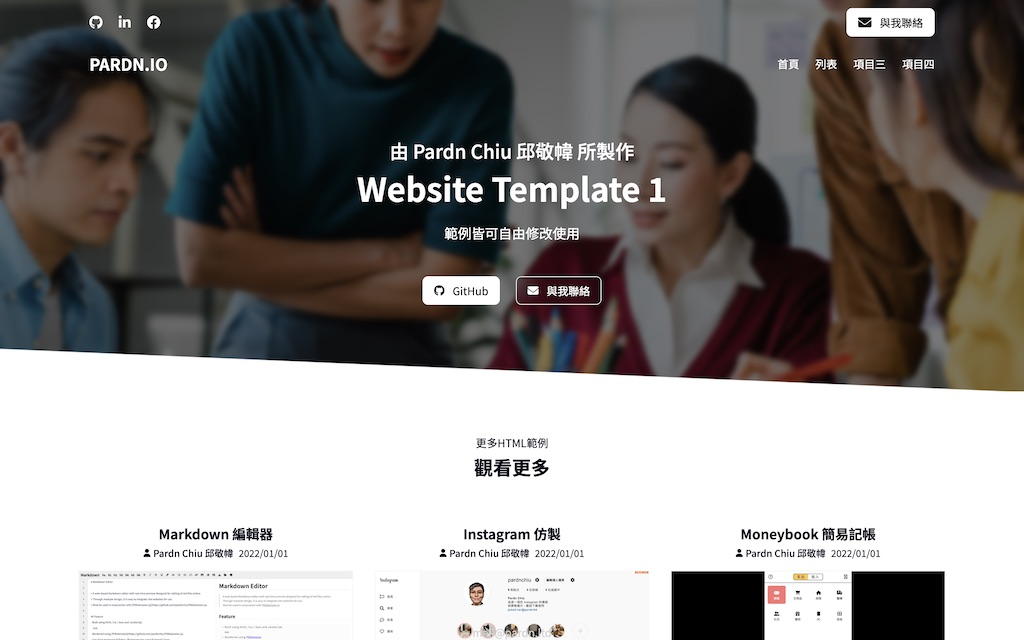
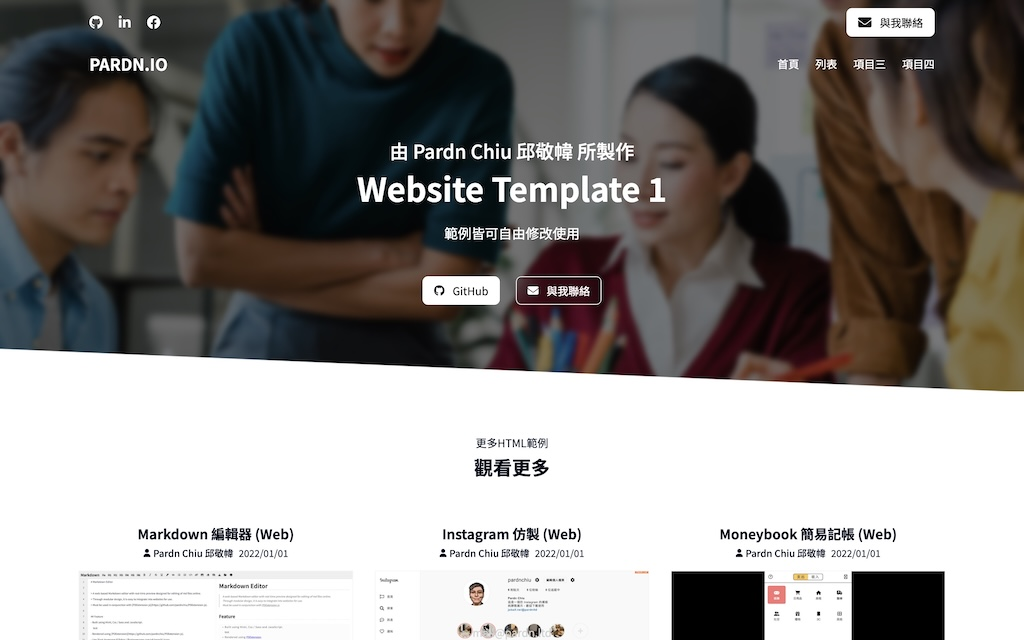
202403100146

Changed region(s): [[0.6875, 0.8125, 0.875, 0.8438], [0.125, 0.8125, 0.2812, 0.8438], [0.4375, 0.8125, 0.5625, 0.8438]]

diff --git a/js/model.min.js b/js/model.min.js
@@ -1,1 +1,1 @@
-function getDom(t){let s="string"==typeof t,e=s?t.$json():t,a=[],i="Lorem",c="Lorem ipsum",o="Lorem ipsum dolor sit amet",r="Lorem ipsum dolor sit amet, consectetur adipiscing elit.",n="Lorem ipsum dolor sit amet, consectetur adipiscing elit. Nullam pharetra ligula odio, sed aliquam augue tincidunt vel.",p="Lorem ipsum dolor sit amet, consectetur adipiscing elit. Nullam pharetra ligula odio, sed aliquam augue tincidunt vel. Suspendisse sodales felis non ex tempus, ac aliquam lacus posuere. Etiam imperdiet aliquam elit, at tincidunt dui.";return e.forEach(t=>{if("string"==typeof t.f)return a.push(t.f._fa);let s;"string"==typeof t.c?s="$XS"===t.c?t.t._(t.a,i):"$S"===t.c?t.t._(t.a,c):"$M"===t.c?t.t._(t.a,o):"$L"===t.c?t.t._(t.a,r):"$XL"===t.c?t.t._(t.a,n):"$XXL"===t.c?t.t._(t.a,p):t.t._(t.a,t.c):t.c instanceof Array&&(s=t.t._(t.a,getDom(t.c))),a.push(s)}),a}let header={_1:{sn:"001",body:[{t:"header",a:{sn:"001"},c:[{t:"section",c:[{t:"section",c:[{t:"h1",c:"$M"},{t:"p",c:"$XXL"},{t:"section",c:[{t:"a.clr",c:[{t:"span",c:"$XS"},{f:"fa-regular fa-envelope"}]},{t:"a",c:[{t:"span",c:"$XS"},{f:"fa-brands fa-github"}]}]}]},{t:"section.list",c:[{t:"img",c:"https://pardnchiu.github.io/website-builder/image/freepik1.svg"}]}]}]}]}},nav={_1:{sn:"001",body:[{t:"nav",a:{sn:"001"},c:[{t:"section",c:[{t:"section.left",c:[{t:"strong",c:"$S"}]},{t:"section.right",c:[{t:"a",c:[{t:"p",c:"$XS"},{f:"fa-solid fa-angle-right"}]},{t:"a",c:[{t:"p",c:"$XS"},{f:"fa-solid fa-angle-right"}]},{t:"a",c:[{t:"p",c:"$XS"},{f:"fa-solid fa-angle-right"}]},{t:"a.clr",c:[{t:"p",c:"$XS"},{f:"fa-solid fa-angle-right"}]}]}]}]}]}},section={_1:{sn:"001",body:[{t:"section",a:{sn:"001"},c:[{t:"section",c:[{t:"section.heading",c:[{t:"em",c:"$M"},{t:"strong",c:"$M"},{t:"p",c:"$XL"}]},{t:"section.list",c:[{t:"div",c:[{f:"fa-solid fa-code"},{t:"strong",c:"$S"},{t:"p",c:"$M"}]},{t:"div",c:[{f:"fa-solid fa-pen-ruler"},{t:"strong",c:"$S"},{t:"p",c:"$M"}]},{t:"div",c:[{f:"fa-solid fa-database"},{t:"strong",c:"$S"},{t:"p",c:"$M"}]},{t:"div",c:[{f:"fa-solid fa-server"},{t:"strong",c:"$S"},{t:"p",c:"$M"}]}]}]}]}]},_2:{sn:"002",body:[{t:"section",a:{sn:"002"},c:[{t:"section",c:[{t:"section.heading",c:[{t:"em",c:"$M"},{t:"strong",c:"$M"},{t:"p",c:"$XL"}]},{t:"section.list",c:[{t:"div",c:[{t:"section",c:[{t:"img",c:"https://pardnchiu.github.io/website-builder/image/Userpics/SVG/Square/Afterclap-0.svg"},{t:"section",c:[{t:"strong",c:"$S"},{t:"p",c:"$M"}]}]},{t:"p",c:"$XL"}]},{t:"div",c:[{t:"section",c:[{t:"img",c:"https://pardnchiu.github.io/website-builder/image/Userpics/SVG/Square/Afterclap-1.svg"},{t:"section",c:[{t:"strong",c:"$S"},{t:"p",c:"$M"}]}]},{t:"p",c:"$XL"}]},{t:"div",c:[{t:"section",c:[{t:"img",c:"https://pardnchiu.github.io/website-builder/image/Userpics/SVG/Square/Afterclap-2.svg"},{t:"section",c:[{t:"strong",c:"$S"},{t:"p",c:"$M"}]}]},{t:"p",c:"$XL"}]}]}]}]}]},_3:{sn:"003",body:[{t:"section",a:{sn:"003"},c:[{t:"section",c:[{t:"section.heading",c:[{t:"em",c:"$M"},{t:"strong",c:"$M"},{t:"p",c:"$XL"}]},{t:"section.list",c:[{t:"div",c:[{f:"fa-solid fa-1"},{t:"section.list",c:[{t:"strong",c:"$M"},{t:"p",c:"$L"}]}]},{t:"div",c:[{f:"fa-solid fa-2"},{t:"section.list",c:[{t:"strong",c:"$M"},{t:"p",c:"$L"}]}]},{t:"div",c:[{f:"fa-solid fa-3"},{t:"section.list",c:[{t:"strong",c:"$M"},{t:"p",c:"$L"}]}]},{t:"div",c:[{f:"fa-solid fa-4"},{t:"section.list",c:[{t:"strong",c:"$M"},{t:"p",c:"$L"}]}]}]}]}]}]},_4:{sn:"004",body:[{t:"section",a:{sn:"004"},c:[{t:"section",c:[{t:"section.heading",c:[{t:"em",c:"$M"},{t:"strong",c:"$M"},{t:"p",c:"$XL"}]},{t:"section.list",c:[{t:"a",c:[{t:"span",c:"$XS"},{f:"fa-solid fa-envelope"}]},{t:"a",c:[{t:"span",c:"$XS"},{f:"fa-brands fa-github"}]}]}]}]}]},_5:{sn:"005",body:[{t:"section",a:{sn:"005"},c:[{t:"section",c:[{t:"section.heading",c:[{t:"em",c:"$M"},{t:"strong",c:"$M"},{t:"p",c:"$XL"}]},{t:"section.list",c:[{t:"div",c:[{t:"em",c:"$XS"},{t:"strong",c:[{t:"span",c:"$"},{t:"span",c:"0.99"},{t:"span",c:"/ month"}]},{t:"ul",c:[{t:"li",c:[{f:"fa-regular fa-circle"},{t:"span",c:"$S"}]},{t:"li",c:[{f:"fa-regular fa-circle"},{t:"span",c:"$S"}]},{t:"li",c:[{f:"fa-regular fa-circle"},{t:"span",c:"$S"}]},{t:"li",c:[{f:"fa-regular fa-circle"},{t:"span",c:"$S"}]},{t:"li",c:[{f:"fa-regular fa-circle-check"},{t:"span",c:"$S"}]},{t:"li",c:[{f:"fa-regular fa-circle-check"},{t:"span",c:"$S"}]}]}]},{t:"div",c:[{t:"em",c:"$XS"},{t:"strong",c:[{t:"span",c:"$"},{t:"span",c:"1.99"},{t:"span",c:"/ month"}]},{t:"ul",c:[{t:"li",c:[{f:"fa-regular fa-circle"},{t:"span",c:"$S"}]},{t:"li",c:[{f:"fa-regular fa-circle"},{t:"span",c:"$S"}]},{t:"li",c:[{f:"fa-regular fa-circle-check"},{t:"span",c:"$S"}]},{t:"li",c:[{f:"fa-regular fa-circle-check"},{t:"span",c:"$S"}]},{t:"li",c:[{f:"fa-regular fa-circle-check"},{t:"span",c:"$S"}]},{t:"li",c:[{f:"fa-regular fa-circle-check"},{t:"span",c:"$S"}]}]}]},{t:"div",c:[{t:"em",c:"$XS"},{t:"strong",c:[{t:"span",c:"$"},{t:"span",c:"2.99"},{t:"span",c:"/ month"}]},{t:"ul",c:[{t:"li",c:[{f:"fa-regular fa-circle-check"},{t:"span",c:"$S"}]},{t:"li",c:[{f:"fa-regular fa-circle-check"},{t:"span",c:"$S"}]},{t:"li",c:[{f:"fa-regular fa-circle-check"},{t:"span",c:"$S"}]},{t:"li",c:[{f:"fa-regular fa-circle-check"},{t:"span",c:"$S"}]},{t:"li",c:[{f:"fa-regular fa-circle-check"},{t:"span",c:"$S"}]},{t:"li",c:[{f:"fa-regular fa-circle-check"},{t:"span",c:"$S"}]}]}]}]}]}]}]},_6:{sn:"006",body:[{t:"section",a:{sn:"006"},c:[{t:"section",c:[{t:"section",c:[{t:"img",c:"https://pardnchiu.github.io/website-builder/image/freepik1.svg"}]},{t:"section",c:[{t:"em",c:"$M"},{t:"strong",c:"$M"},{t:"p",c:"$XL"},{t:"ul",c:[{t:"li",c:[{t:"strong",c:"$XS"},{t:"p",c:"$L"},{t:"a",c:[{t:"span",c:"$XS"},{f:"fa-solid fa-arrow-right"}]}]},{t:"li",c:[{t:"strong",c:"$XS"},{t:"p",c:"$L"},{t:"a",c:[{t:"span",c:"$XS"},{f:"fa-solid fa-arrow-right"}]}]},{t:"li",c:[{t:"strong",c:"$XS"},{t:"p",c:"$L"},{t:"a",c:[{t:"span",c:"$XS"},{f:"fa-solid fa-arrow-right"}]}]},{t:"li",c:[{t:"strong",c:"$XS"},{t:"p",c:"$L"},{t:"a",c:[{t:"span",c:"$XS"},{f:"fa-solid fa-arrow-right"}]}]}]}]}]}]}]},_7:{sn:"007",body:[{t:"section",a:{sn:"007"},c:[{t:"section",c:[{t:"section.heading",c:[{t:"em",c:"$M"},{t:"strong",c:"$M"},{t:"p",c:"$XL"}]},{t:"section.list",c:[{t:"div",c:[{f:"fa-solid fa-code"},{t:"section",c:[{t:"strong",c:"$L"},{t:"p",c:"$XXL"}]}]},{t:"div",c:[{f:"fa-solid fa-pen-ruler"},{t:"section",c:[{t:"strong",c:"$L"},{t:"p",c:"$XXL"}]}]}]}]}]}]},_8:{sn:"008",body:[{t:"section",a:{sn:"008"},c:[{t:"section",c:[{t:"section.heading",c:[{t:"em",c:"$M"},{t:"strong",c:"$M"},{t:"p",c:"$XL"}]},{t:"section.list",c:[{t:"section.left",c:[{t:"strong",c:"$S"},{t:"p",c:"$M"}]},{t:"section.right",c:[{t:"a",c:[{t:"span",c:"$XS"},{f:"fa-solid fa-envelope"}]},{t:"a",c:[{t:"span",c:"$XS"},{f:"fa-brands fa-github"}]}]}]}]}]}]}},template={_1:{sn:"001",body:function(){return["header"._({sn:"001-01",style:{backgroundImage:"url(https://pardnchiu.github.io/image/bg_0.jpg)"}},["section.top"._(["section"._(["a"._({"data-href":"https://github.com/pardnchiu"},["fa-brands fa-github"._fa]),"a"._({"data-href":"https://linkedin.com/in/pardnchiu"},["fa-brands fa-linkedin-in"._fa]),"a"._({"data-href":"https://www.facebook.com/pardnchiu"},["fa-brands fa-facebook"._fa])]),"section"._(["a.button"._({"data-href":"mailto:mail@pardn.ltd"},["fa-solid fa-envelope"._fa,"與我聯絡"])])]),"nav#top-nav"._(["section"._(["section"._(["strong"._("PARDN.IO")]),"section"._(["section"._(["a"._("首頁"),"section"._(["列表","section"._(["a"._("項目一"),"a"._("項目二")])]),"a"._("項目三"),"a"._("項目四"),"button.close"._("關閉")]),"button.mobile"._(["fa-solid fa-list"._fa])])])]),"section.body"._(["article"._(["h2"._("由 Pardn Chiu 邱敬幃 所製作"),"h1"._("Website Template 1"),"p"._("範例皆可自由修改使用"),"section"._(["a"._({"data-href":"https://github.com/pardnchiu"},["fa-brands fa-github"._fa,"GitHub"]),"a"._({"data-href":"mailto:mail@pardn.ltd"},["fa-solid fa-envelope"._fa,"與我聯絡"])])])])]),"section"._({sn:"001-02"},["span.top"._(),"span.bottom"._(),"section.header"._(["p"._("更多HTML範例"),"strong"._("觀看更多")]),"section.list"._(["article"._(["section"._(["strong"._("Markdown 編輯器"),"ul"._(["li"._(["a"._(["fa-solid fa-user"._fa," Pardn Chiu 邱敬幃"])]),"li"._(["time"._({datetime:"2022/01/01"},"2022/01/01")])])]),"figure"._(["a"._(["img"._("https://pardnchiu.github.io/markdown-editor/image/preview.jpg")]),"figcaption"._(["p"._("A web-based Markdown Editor with real-time preview, built with pure HTML, CSS and JavaScript."),"a"._({"data-href":"https://pardnchiu.github.io/markdown-editor"},["fa-brands fa-github"._fa,"預覽"])])])]),"article"._(["section"._(["strong"._("Instagram 仿製"),"ul"._(["li"._(["a"._(["fa-solid fa-user"._fa," Pardn Chiu 邱敬幃"])]),"li"._(["time"._({datetime:"2022/01/01"},"2022/01/01")])])]),"figure"._(["a"._(["img"._("https://pardnchiu.github.io/instagram-202210-web/image/preview.jpg")]),"figcaption"._(["p"._("Building a Instagram Clone from scratch, built with pure HTML, CSS and JavaScript."),"a"._({"data-href":"https://pardnchiu.github.io/instagram-202210-web"},["fa-brands fa-github"._fa,"預覽"])])])]),"article"._(["section"._(["strong"._("Moneybook 簡易記帳"),"ul"._(["li"._(["a"._(["fa-solid fa-user"._fa," Pardn Chiu 邱敬幃"])]),"li"._(["time"._({datetime:"2022/01/01"},"2022/01/01")])])]),"figure"._(["a"._(["img"._("https://pardnchiu.github.io/moneybook/image/preview.jpg")]),"figcaption"._(["p"._("A web-based basic expense tracking app interface, built with pure HTML, CSS and JavaScript."),"a"._({"data-href":"https://pardnchiu.github.io/moneybook"},["fa-brands fa-github"._fa,"預覽"])])])])])]),"section"._({sn:"001-03",style:{backgroundImage:"linear-gradient(to right bottom, #000, steelblue)"}},["section"._(["div"._(["fa-brands fa-swift"._fa,"p"._("Swift"),"strong"._("7 年")]),"div"._(["fa-brands fa-html5"._fa,"p"._("Html / Scss / Js"),"strong"._("6 年")]),"div"._(["fa-brands fa-node-js"._fa,"p"._("Node.js"),"strong"._("6 年")]),"div"._(["fa-brands fa-php"._fa,"p"._("PHP"),"strong"._("3 年")])])]),"section"._({sn:"001-04"},["span.top"._(),"span.bottom"._(),"section.header"._(["p"._("更多類型的範例"),"strong"._("更多項目")]),"section.list"._(["figure"._(["a"._(["img"._("https://pardnchiu.github.io/firebase-messaging-ios/image/2-1.jpg")]),"figcaption"._(["a"._(["strong"._("Firebase 即時訊息 (iOS)"),"p"._("")])])]),"figure"._(["a"._(["img"._("https://pardnchiu.github.io/moneybook-ios/image/2-1.jpg")]),"figcaption"._(["a"._(["strong"._("Moneybook 簡易記帳 (iOS)"),"p"._("A lightweight front-end framework designed to separate the front-end user interface and data logic.")])])]),"figure"._(["a"._(["img"._("https://pardnchiu.github.io/PDExtension-js/image/2-1.jpg")]),"figcaption"._(["a"._(["strong"._("PDExtension (JavaScript)"),"p"._("A Swift library for accelerating iOS app development.")])])]),"figure"._(["a"._(["img"._("https://pardnchiu.github.io/PDPlayer/image/2-1.jpg")]),"figcaption"._(["a"._(["strong"._("PDPlayer (JavaScript)"),"p"._("A video player perfectly resolves full-screen display on mobile devices at inline mode, supporting both local and YouTube videos.")])])])])]),"section"._({sn:"001-05",style:{backgroundImage:"url(https://pardnchiu.github.io/image/bg_2.jpg)"}},["span.mask"._(),"section.header"._(["strong"._("Lorem ipsum"),"p"._("Lorem ipsum dolor sit amet")]),"section.list.r3"._(["article"._(["fa-solid fa-glass-martini-alt"._fa,"strong"._("Lorem ipsum"),"p"._("Lorem ipsum dolor sit amet, consectetur adipiscing elit."),"a"._(["前往查看","fa-solid fa-caret-right"._fa])]),"article"._(["fa-solid fa-chart-area"._fa,"strong"._("Lorem ipsum"),"p"._("Lorem ipsum dolor sit amet, consectetur adipiscing elit."),"a"._(["前往查看","fa-solid fa-caret-right"._fa])]),"article"._(["fa-solid fa-bus-alt"._fa,"strong"._("Lorem ipsum"),"p"._("Lorem ipsum dolor sit amet, consectetur adipiscing elit."),"a"._(["前往查看","fa-solid fa-caret-right"._fa])])])]),"section"._({sn:"001-06"},["span.top"._(),"span.bottom"._(),"section.header"._(["strong"._("Lorem ipsum"),"p"._("Lorem ipsum dolor sit amet")]),"section.body"._(["section"._(["strong"._("Lorem ipsum dolor sit amet"),"p"._("Lorem ipsum dolor sit amet, consectetur adipiscing elit. Nullam pharetra ligula odio, sed aliquam augue tincidunt vel. Suspendisse sodales felis non ex tempus, ac aliquam lacus posuere. Etiam imperdiet aliquam elit, at tincidunt dui."),"section.button"._(["a"._("Lorem"),"a"._("Lorem")])]),"section"._(["section.yt"._(["iframe"._({frameborder:"0",allowfullscreen:"",src:"https://www.youtube.com/embed/zJ_w7Dix_f0?si=6M2qyu_O3z2yYGNy"})]),"p"._("Lorem ipsum dolor sit amet, consectetur adipiscing elit. Nullam pharetra ligula odio, sed aliquam augue tincidunt vel.")])])]),"footer"._({sn:"001-07",style:{backgroundImage:"url(https://pardnchiu.github.io/image/bg_3.jpg)"}},["span.blur"._(),"section"._(["section.block"._(["strong"._("About"),"p"._("Lorem ipsum dolor sit amet, consectetur adipiscing elit. Nullam pharetra ligula odio, sed aliquam augue tincidunt vel. Suspendisse sodales felis non ex tempus, ac aliquam lacus posuere. Etiam imperdiet aliquam elit, at tincidunt dui."),"section.contact"._(["a"._(["fa-brands fa-github"._fa]),"a"._(["fa-brands fa-linkedin-in"._fa]),"a"._(["fa-brands fa-facebook"._fa])])]),"section.block"._(["strong"._("GitHub"),"section.list"._(["a"._("Markdown 編輯器 (Web)"),"a"._("Instagram 仿製 (Web)"),"a"._("Moneybook 簡易記帳 (Web)"),"a"._("Firebase 即時訊息 (iOS)"),"a"._("Moneybook 簡易記帳 (iOS)")])]),"section.block"._(["strong"._("Contact"),"section.input"._(["p"._("Lorem ipsum dolor sit amet, consectetur adipiscing elit."),"form"._(["label"._(["input@text 名稱"._({readonly:""})]),"label"._(["input@text 信箱"._({readonly:""})])]),"a"._("送出")])]),"section.block"._(["strong"._("Lorem"),"section.grid"._(["a"._(["img"._("https://pardnchiu.github.io/image/Userpics/SVG/Square/Afterclap-0.svg")]),"a"._(["img"._("https://pardnchiu.github.io/image/Userpics/SVG/Square/Afterclap-1.svg")]),"a"._(["img"._("https://pardnchiu.github.io/image/Userpics/SVG/Square/Afterclap-2.svg")]),"a"._(["img"._("https://pardnchiu.github.io/image/Userpics/SVG/Square/Afterclap-3.svg")]),"a"._(["img"._("https://pardnchiu.github.io/image/Userpics/SVG/Square/Afterclap-4.svg")]),"a"._(["img"._("https://pardnchiu.github.io/image/Userpics/SVG/Square/Afterclap-5.svg")]),"a"._(["img"._("https://pardnchiu.github.io/image/Userpics/SVG/Square/Afterclap-6.svg")]),"a"._(["img"._("https://pardnchiu.github.io/image/Userpics/SVG/Square/Afterclap-7.svg")]),"a"._(["img"._("https://pardnchiu.github.io/image/Userpics/SVG/Square/Afterclap-8.svg")])])]),"section.page"._(["a"._(["fa-solid fa-home"._fa]),"a"._("關於我"),"a"._("與我聯絡"),"a"._("服務條款"),"a"._("服務條款")]),"section.bottom"._(["p.l"._("© 2022 - All Rights Reserved - Pardn.io"),"p.r"._("Created by Pardn Chiu 邱敬幃")])])])]}}},w3={display:"https://www.w3schools.com/cssref/pr_class_display.php",position:"https://www.w3schools.com/cssref/pr_class_position.php",top:"https://www.w3schools.com/cssref/pr_pos_top.php",left:"https://www.w3schools.com/cssref/pr_pos_left.php",bottom:"https://www.w3schools.com/cssref/pr_pos_bottom.php",right:"https://www.w3schools.com/cssref/pr_pos_right.php",float:"https://www.w3schools.com/cssref/pr_class_float.php",opacity:"https://www.w3schools.com/cssref/css3_pr_opacity.php",zIndex:"https://www.w3schools.com/cssref/pr_pos_z-index.php",verticalAlign:"https://www.w3schools.com/cssref/pr_pos_vertical-align.php",boxSizing:"https://www.w3schools.com/cssref/pr_pos_vertical-align.php",overflow:"https://www.w3schools.com/cssref/pr_pos_overflow.php",transform:"https://www.w3schools.com/cssref/css3_prtransform.php",marginTop:"https://www.w3schools.com/cssref/pr_margin-top.php",marginLeft:"https://www.w3schools.com/cssref/pr_margin-left.php",marginBottom:"https://www.w3schools.com/cssref/pr_margin-bottom.php",marginRight:"https://www.w3schools.com/cssref/pr_margin-right.php",paddingTop:"https://www.w3schools.com/cssref/pr_padding-top.php",paddingLeft:"https://www.w3schools.com/cssref/pr_padding-left.php",paddingBottom:"https://www.w3schools.com/cssref/pr_padding-bottom.php",paddingRight:"https://www.w3schools.com/cssref/pr_padding-right.php",color:"https://www.w3schools.com/cssref/css_colors_legal.php",gradient:"https://www.w3schools.com/css/css3_gradients.asp",backgroundImage:"https://www.w3schools.com/cssref/pr_background-image.php",backgroundRepeat:"https://www.w3schools.com/cssref/pr_background-repeat.php",backgroundPosition:"https://www.w3schools.com/cssref/pr_background-position.php",backgroundSize:"https://www.w3schools.com/cssref/css3_prbackground-size.php",backgroundAttachment:"https://www.w3schools.com/cssref/pr_background-attachment.php",backgroundClip:"https://www.w3schools.com/cssref/css3_prbackground-clip.php",textAlign:"https://www.w3schools.com/cssref/pr_text_text-align.php",lineHeight:"https://www.w3schools.com/cssref/pr_dim_line-height.php",letterSpacing:"https://www.w3schools.com/cssref/pr_text_letter-spacing.php",textDecorationLine:"https://www.w3schools.com/cssref/css3_pr_text-decoration-line.php",textDecorationColor:"https://www.w3schools.com/cssref/css3_pr_text-decoration-color.php",textDecorationStyle:"https://www.w3schools.com/cssref/css3_pr_text-decoration-style.php",textDecorationThickness:"https://www.w3schools.com/cssref/pr_text_text-decoration-thickness.php",fontFamily:"https://www.w3schools.com/cssref/pr_font_font-family.php",fontStyle:"https://www.w3schools.com/cssref/pr_font_font-style.php",fontSize:"https://www.w3schools.com/cssref/pr_font_font-size.php",fontWeight:"https://www.w3schools.com/cssref/pr_font_weight.php",borderStyle:"https://www.w3schools.com/cssref/pr_border-style.php",borderTopWidth:"https://www.w3schools.com/cssref/pr_padding-top.php",borderLeftWidth:"https://www.w3schools.com/cssref/pr_padding-left.php",borderBottomWidth:"https://www.w3schools.com/cssref/pr_padding-right.php",borderRightWidth:"https://www.w3schools.com/cssref/pr_padding-right.php",borderTopLeftRadius:"https://www.w3schools.com/cssref/pr_padding-top.php",borderTopRightRadius:"https://www.w3schools.com/cssref/pr_padding-top.php",borderBottomRightRadius:"https://www.w3schools.com/cssref/pr_padding-top.php",borderBottomLeftRadius:"https://www.w3schools.com/cssref/pr_padding-top.php",listStyleType:"https://www.w3schools.com/cssref/pr_list-style-type.php",listStylePosition:"https://www.w3schools.com/cssref/pr_list-style-position.php",datetime:"https://www.w3schools.com/tags/att_datetime.asp"};Object.defineProperty(Array.prototype,"getMap",{get:function(){const t=new Map;return this.forEach(s=>t.set(s,0)),t}});let map={heading:["h1","h2","h3","h4","h5","h6"].getMap,target:["_self","_blank"].getMap,mask:["none","convex-32","convex-48","convex-64","concave-32","concave-48","concave-64","slash-left-32","slash-left-48","slash-left-64","slash-right-32","slash-right-48","slash-right-64","wave"].getMap,display:["block","inline","inline-block","flex","inline-flex","grid","inline-grid","table","table-row","list-item","none"].getMap,position:["static","relative","fixed","absolute","sticky"].getMap,float:["none","left","right"].getMap,boxSizing:["content-box","border-box"].getMap,overflow:["visible","hidden","scroll","scroll hidden","hidden scroll","auto"].getMap,backgroundRepeat:["repeat","repeat-x","repeat-y","no-repeat"].getMap,backgroundAttachment:["scroll","fixed","local"].getMap,backgroundClip:["border-box","padding-box","content-box","text"].getMap,textAlign:["left","center","right","justify","justify-all","start","end"].getMap,textDecoration:["none","overline","underline","line-through"].getMap,textDecorationStyle:["solid","double","dotted","dashed","wavy"].getMap,fontFamily:["Arial","Arial Black","Comic Sans MS","Courier","Courier New","Georgia","Impact","Monospace","Microsoft Sans Serif","Noto Sans TC","Roman","Roboto Mono","sans-serif","Symbol","System","Tahoma","Times New Roman","Trebuchet MS","verdana"].getMap,fontStyle:["normal","italic","oblique"].getMap,borderStyle:["none","solid","dotted","dashed"].getMap,bool:["是","否"].getMap,listStylePosition:["outside","inside"].getMap},navs={},headers={},sections={},templates={};nav.$vals.forEach(t=>navs[`n${t.sn}`]={cover:`image/preview/nav/${t.sn}.jpg`,body:function(){return null==this.cache&&(this.cache=getDom(t.body)[0]),this.cache}}),header.$vals.forEach(t=>headers[`n${t.sn}`]={cover:`image/preview/header/${t.sn}.jpg`,body:function(){return null==this.cache&&(this.cache=getDom(t.body)[0]),this.cache}}),section.$vals.forEach(t=>sections[`n${t.sn}`]={cover:`image/preview/section/${t.sn}.jpg`,body:function(){return null==this.cache&&(this.cache=getDom(t.body)[0]),this.cache}}),template.$vals.forEach(t=>templates[`n${t.sn}`]={cover:`image/preview/template/${t.sn}.jpg`,body:function(){return t.body()}});export{w3,map,navs,headers,sections,templates};
+function getDom(t){let s="string"==typeof t,e=s?t.$json():t,a=[],i="Lorem",c="Lorem ipsum",o="Lorem ipsum dolor sit amet",r="Lorem ipsum dolor sit amet, consectetur adipiscing elit.",n="Lorem ipsum dolor sit amet, consectetur adipiscing elit. Nullam pharetra ligula odio, sed aliquam augue tincidunt vel.",p="Lorem ipsum dolor sit amet, consectetur adipiscing elit. Nullam pharetra ligula odio, sed aliquam augue tincidunt vel. Suspendisse sodales felis non ex tempus, ac aliquam lacus posuere. Etiam imperdiet aliquam elit, at tincidunt dui.";return e.forEach(t=>{if("string"==typeof t.f)return a.push(t.f._fa);let s;"string"==typeof t.c?s="$XS"===t.c?t.t._(t.a,i):"$S"===t.c?t.t._(t.a,c):"$M"===t.c?t.t._(t.a,o):"$L"===t.c?t.t._(t.a,r):"$XL"===t.c?t.t._(t.a,n):"$XXL"===t.c?t.t._(t.a,p):t.t._(t.a,t.c):t.c instanceof Array&&(s=t.t._(t.a,getDom(t.c))),a.push(s)}),a}let header={_1:{sn:"001",body:[{t:"header",a:{sn:"001"},c:[{t:"section",c:[{t:"section",c:[{t:"h1",c:"$M"},{t:"p",c:"$XXL"},{t:"section",c:[{t:"a.clr",c:[{t:"span",c:"$XS"},{f:"fa-regular fa-envelope"}]},{t:"a",c:[{t:"span",c:"$XS"},{f:"fa-brands fa-github"}]}]}]},{t:"section.list",c:[{t:"img",c:"https://pardnchiu.github.io/website-builder/image/freepik1.svg"}]}]}]}]}},nav={_1:{sn:"001",body:[{t:"nav",a:{sn:"001"},c:[{t:"section",c:[{t:"section.left",c:[{t:"strong",c:"$S"}]},{t:"section.right",c:[{t:"a",c:[{t:"p",c:"$XS"},{f:"fa-solid fa-angle-right"}]},{t:"a",c:[{t:"p",c:"$XS"},{f:"fa-solid fa-angle-right"}]},{t:"a",c:[{t:"p",c:"$XS"},{f:"fa-solid fa-angle-right"}]},{t:"a.clr",c:[{t:"p",c:"$XS"},{f:"fa-solid fa-angle-right"}]}]}]}]}]}},section={_1:{sn:"001",body:[{t:"section",a:{sn:"001"},c:[{t:"section",c:[{t:"section.heading",c:[{t:"em",c:"$M"},{t:"strong",c:"$M"},{t:"p",c:"$XL"}]},{t:"section.list",c:[{t:"div",c:[{f:"fa-solid fa-code"},{t:"strong",c:"$S"},{t:"p",c:"$M"}]},{t:"div",c:[{f:"fa-solid fa-pen-ruler"},{t:"strong",c:"$S"},{t:"p",c:"$M"}]},{t:"div",c:[{f:"fa-solid fa-database"},{t:"strong",c:"$S"},{t:"p",c:"$M"}]},{t:"div",c:[{f:"fa-solid fa-server"},{t:"strong",c:"$S"},{t:"p",c:"$M"}]}]}]}]}]},_2:{sn:"002",body:[{t:"section",a:{sn:"002"},c:[{t:"section",c:[{t:"section.heading",c:[{t:"em",c:"$M"},{t:"strong",c:"$M"},{t:"p",c:"$XL"}]},{t:"section.list",c:[{t:"div",c:[{t:"section",c:[{t:"img",c:"https://pardnchiu.github.io/website-builder/image/Userpics/SVG/Square/Afterclap-0.svg"},{t:"section",c:[{t:"strong",c:"$S"},{t:"p",c:"$M"}]}]},{t:"p",c:"$XL"}]},{t:"div",c:[{t:"section",c:[{t:"img",c:"https://pardnchiu.github.io/website-builder/image/Userpics/SVG/Square/Afterclap-1.svg"},{t:"section",c:[{t:"strong",c:"$S"},{t:"p",c:"$M"}]}]},{t:"p",c:"$XL"}]},{t:"div",c:[{t:"section",c:[{t:"img",c:"https://pardnchiu.github.io/website-builder/image/Userpics/SVG/Square/Afterclap-2.svg"},{t:"section",c:[{t:"strong",c:"$S"},{t:"p",c:"$M"}]}]},{t:"p",c:"$XL"}]}]}]}]}]},_3:{sn:"003",body:[{t:"section",a:{sn:"003"},c:[{t:"section",c:[{t:"section.heading",c:[{t:"em",c:"$M"},{t:"strong",c:"$M"},{t:"p",c:"$XL"}]},{t:"section.list",c:[{t:"div",c:[{f:"fa-solid fa-1"},{t:"section.list",c:[{t:"strong",c:"$M"},{t:"p",c:"$L"}]}]},{t:"div",c:[{f:"fa-solid fa-2"},{t:"section.list",c:[{t:"strong",c:"$M"},{t:"p",c:"$L"}]}]},{t:"div",c:[{f:"fa-solid fa-3"},{t:"section.list",c:[{t:"strong",c:"$M"},{t:"p",c:"$L"}]}]},{t:"div",c:[{f:"fa-solid fa-4"},{t:"section.list",c:[{t:"strong",c:"$M"},{t:"p",c:"$L"}]}]}]}]}]}]},_4:{sn:"004",body:[{t:"section",a:{sn:"004"},c:[{t:"section",c:[{t:"section.heading",c:[{t:"em",c:"$M"},{t:"strong",c:"$M"},{t:"p",c:"$XL"}]},{t:"section.list",c:[{t:"a",c:[{t:"span",c:"$XS"},{f:"fa-solid fa-envelope"}]},{t:"a",c:[{t:"span",c:"$XS"},{f:"fa-brands fa-github"}]}]}]}]}]},_5:{sn:"005",body:[{t:"section",a:{sn:"005"},c:[{t:"section",c:[{t:"section.heading",c:[{t:"em",c:"$M"},{t:"strong",c:"$M"},{t:"p",c:"$XL"}]},{t:"section.list",c:[{t:"div",c:[{t:"em",c:"$XS"},{t:"strong",c:[{t:"span",c:"$"},{t:"span",c:"0.99"},{t:"span",c:"/ month"}]},{t:"ul",c:[{t:"li",c:[{f:"fa-regular fa-circle"},{t:"span",c:"$S"}]},{t:"li",c:[{f:"fa-regular fa-circle"},{t:"span",c:"$S"}]},{t:"li",c:[{f:"fa-regular fa-circle"},{t:"span",c:"$S"}]},{t:"li",c:[{f:"fa-regular fa-circle"},{t:"span",c:"$S"}]},{t:"li",c:[{f:"fa-regular fa-circle-check"},{t:"span",c:"$S"}]},{t:"li",c:[{f:"fa-regular fa-circle-check"},{t:"span",c:"$S"}]}]}]},{t:"div",c:[{t:"em",c:"$XS"},{t:"strong",c:[{t:"span",c:"$"},{t:"span",c:"1.99"},{t:"span",c:"/ month"}]},{t:"ul",c:[{t:"li",c:[{f:"fa-regular fa-circle"},{t:"span",c:"$S"}]},{t:"li",c:[{f:"fa-regular fa-circle"},{t:"span",c:"$S"}]},{t:"li",c:[{f:"fa-regular fa-circle-check"},{t:"span",c:"$S"}]},{t:"li",c:[{f:"fa-regular fa-circle-check"},{t:"span",c:"$S"}]},{t:"li",c:[{f:"fa-regular fa-circle-check"},{t:"span",c:"$S"}]},{t:"li",c:[{f:"fa-regular fa-circle-check"},{t:"span",c:"$S"}]}]}]},{t:"div",c:[{t:"em",c:"$XS"},{t:"strong",c:[{t:"span",c:"$"},{t:"span",c:"2.99"},{t:"span",c:"/ month"}]},{t:"ul",c:[{t:"li",c:[{f:"fa-regular fa-circle-check"},{t:"span",c:"$S"}]},{t:"li",c:[{f:"fa-regular fa-circle-check"},{t:"span",c:"$S"}]},{t:"li",c:[{f:"fa-regular fa-circle-check"},{t:"span",c:"$S"}]},{t:"li",c:[{f:"fa-regular fa-circle-check"},{t:"span",c:"$S"}]},{t:"li",c:[{f:"fa-regular fa-circle-check"},{t:"span",c:"$S"}]},{t:"li",c:[{f:"fa-regular fa-circle-check"},{t:"span",c:"$S"}]}]}]}]}]}]}]},_6:{sn:"006",body:[{t:"section",a:{sn:"006"},c:[{t:"section",c:[{t:"section",c:[{t:"img",c:"https://pardnchiu.github.io/website-builder/image/freepik1.svg"}]},{t:"section",c:[{t:"em",c:"$M"},{t:"strong",c:"$M"},{t:"p",c:"$XL"},{t:"ul",c:[{t:"li",c:[{t:"strong",c:"$XS"},{t:"p",c:"$L"},{t:"a",c:[{t:"span",c:"$XS"},{f:"fa-solid fa-arrow-right"}]}]},{t:"li",c:[{t:"strong",c:"$XS"},{t:"p",c:"$L"},{t:"a",c:[{t:"span",c:"$XS"},{f:"fa-solid fa-arrow-right"}]}]},{t:"li",c:[{t:"strong",c:"$XS"},{t:"p",c:"$L"},{t:"a",c:[{t:"span",c:"$XS"},{f:"fa-solid fa-arrow-right"}]}]},{t:"li",c:[{t:"strong",c:"$XS"},{t:"p",c:"$L"},{t:"a",c:[{t:"span",c:"$XS"},{f:"fa-solid fa-arrow-right"}]}]}]}]}]}]}]},_7:{sn:"007",body:[{t:"section",a:{sn:"007"},c:[{t:"section",c:[{t:"section.heading",c:[{t:"em",c:"$M"},{t:"strong",c:"$M"},{t:"p",c:"$XL"}]},{t:"section.list",c:[{t:"div",c:[{f:"fa-solid fa-code"},{t:"section",c:[{t:"strong",c:"$L"},{t:"p",c:"$XXL"}]}]},{t:"div",c:[{f:"fa-solid fa-pen-ruler"},{t:"section",c:[{t:"strong",c:"$L"},{t:"p",c:"$XXL"}]}]}]}]}]}]},_8:{sn:"008",body:[{t:"section",a:{sn:"008"},c:[{t:"section",c:[{t:"section.heading",c:[{t:"em",c:"$M"},{t:"strong",c:"$M"},{t:"p",c:"$XL"}]},{t:"section.list",c:[{t:"section.left",c:[{t:"strong",c:"$S"},{t:"p",c:"$M"}]},{t:"section.right",c:[{t:"a",c:[{t:"span",c:"$XS"},{f:"fa-solid fa-envelope"}]},{t:"a",c:[{t:"span",c:"$XS"},{f:"fa-brands fa-github"}]}]}]}]}]}]}},template={_1:{sn:"001",body:function(){return["header"._({sn:"001-01",style:{backgroundImage:"url(https://pardnchiu.github.io/image/bg_0.jpg)"}},["section.top"._(["section"._(["a"._({"data-href":"https://github.com/pardnchiu"},["fa-brands fa-github"._fa]),"a"._({"data-href":"https://linkedin.com/in/pardnchiu"},["fa-brands fa-linkedin-in"._fa]),"a"._({"data-href":"https://www.facebook.com/pardnchiu"},["fa-brands fa-facebook"._fa])]),"section"._(["a.button"._({"data-href":"mailto:mail@pardn.ltd"},["fa-solid fa-envelope"._fa,"與我聯絡"])])]),"nav#top-nav"._(["section"._(["section"._(["strong"._("PARDN.IO")]),"section"._(["section"._(["a"._("首頁"),"section"._(["列表","section"._(["a"._("項目一"),"a"._("項目二")])]),"a"._("項目三"),"a"._("項目四"),"button.close"._("關閉")]),"button.mobile"._(["fa-solid fa-list"._fa])])])]),"section.body"._(["article"._(["h2"._("由 Pardn Chiu 邱敬幃 所製作"),"h1"._("Website Template 1"),"p"._("範例皆可自由修改使用"),"section"._(["a"._({"data-href":"https://github.com/pardnchiu"},["fa-brands fa-github"._fa,"GitHub"]),"a"._({"data-href":"mailto:mail@pardn.ltd"},["fa-solid fa-envelope"._fa,"與我聯絡"])])])])]),"section"._({sn:"001-02"},["span.top"._(),"span.bottom"._(),"section.header"._(["p"._("更多HTML範例"),"strong"._("觀看更多")]),"section.list"._(["article"._(["section"._(["strong"._("Markdown 編輯器 (Web)"),"ul"._(["li"._(["a"._(["fa-solid fa-user"._fa," Pardn Chiu 邱敬幃"])]),"li"._(["time"._({datetime:"2022/01/01"},"2022/01/01")])])]),"figure"._(["a"._(["img"._("https://pardnchiu.github.io/markdown-editor/image/preview.jpg")]),"figcaption"._(["p"._("A web-based Markdown Editor with real-time preview, built with pure HTML, CSS and JavaScript."),"a"._({"data-href":"https://pardnchiu.github.io/markdown-editor"},["fa-brands fa-github"._fa,"預覽"])])])]),"article"._(["section"._(["strong"._("Instagram 仿製 (Web)"),"ul"._(["li"._(["a"._(["fa-solid fa-user"._fa," Pardn Chiu 邱敬幃"])]),"li"._(["time"._({datetime:"2022/01/01"},"2022/01/01")])])]),"figure"._(["a"._(["img"._("https://pardnchiu.github.io/instagram-202210-web/image/preview.jpg")]),"figcaption"._(["p"._("Building a Instagram Clone from scratch, built with pure HTML, CSS and JavaScript."),"a"._({"data-href":"https://pardnchiu.github.io/instagram-202210-web"},["fa-brands fa-github"._fa,"預覽"])])])]),"article"._(["section"._(["strong"._("Moneybook 簡易記帳 (Web)"),"ul"._(["li"._(["a"._(["fa-solid fa-user"._fa," Pardn Chiu 邱敬幃"])]),"li"._(["time"._({datetime:"2022/01/01"},"2022/01/01")])])]),"figure"._(["a"._(["img"._("https://pardnchiu.github.io/moneybook/image/preview.jpg")]),"figcaption"._(["p"._("A web-based basic expense tracking app interface, built with pure HTML, CSS and JavaScript."),"a"._({"data-href":"https://pardnchiu.github.io/moneybook"},["fa-brands fa-github"._fa,"預覽"])])])])])]),"section"._({sn:"001-03",style:{backgroundImage:"linear-gradient(to right bottom, #000, steelblue)"}},["section"._(["div"._(["fa-brands fa-swift"._fa,"p"._("Swift"),"strong"._("7 年")]),"div"._(["fa-brands fa-html5"._fa,"p"._("Html / Scss / Js"),"strong"._("6 年")]),"div"._(["fa-brands fa-node-js"._fa,"p"._("Node.js"),"strong"._("6 年")]),"div"._(["fa-brands fa-php"._fa,"p"._("PHP"),"strong"._("3 年")])])]),"section"._({sn:"001-04"},["span.top"._(),"span.bottom"._(),"section.header"._(["p"._("更多類型的範例"),"strong"._("更多項目")]),"section.list"._(["figure"._(["a"._(["img"._("https://pardnchiu.github.io/firebase-messaging-ios/image/2-1.jpg")]),"figcaption"._(["a"._(["strong"._("Firebase 即時訊息 (iOS)"),"p"._("Building a real-time messaging iOS app from scratch using Swift with pure code.")])])]),"figure"._(["a"._(["img"._("https://pardnchiu.github.io/moneybook-ios/image/2-1.jpg")]),"figcaption"._(["a"._(["strong"._("Moneybook 簡易記帳 (iOS)"),"p"._("Building a basic expense tracking app interface on iOS from scratch using Swift with pure code.")])])]),"figure"._(["a"._(["img"._("https://pardnchiu.github.io/PDExtension-js/image/preview.jpg")]),"figcaption"._(["a"._(["strong"._("PDExtension (JavaScript)"),"p"._("A lightweight front-end framework designed to separate the front-end user interface and data logic.")])])]),"figure"._(["a"._(["img"._("https://pardnchiu.github.io/pokemon-quest-css-drawing/image/preview.jpg")]),"figcaption"._(["a"._(["strong"._("寶可夢探險圖鑑 Css 繪圖"),"p"._("A video player perfectly resolves full-screen display on mobile devices at inline mode, supporting both local and YouTube videos.")])])])])]),"section"._({sn:"001-05",style:{backgroundImage:"url(https://pardnchiu.github.io/image/bg_2.jpg)"}},["span.mask"._(),"section.header"._(["strong"._("Lorem ipsum"),"p"._("Lorem ipsum dolor sit amet")]),"section.list.r3"._(["article"._(["fa-solid fa-glass-martini-alt"._fa,"strong"._("Lorem ipsum"),"p"._("Lorem ipsum dolor sit amet, consectetur adipiscing elit."),"a"._(["前往查看","fa-solid fa-caret-right"._fa])]),"article"._(["fa-solid fa-chart-area"._fa,"strong"._("Lorem ipsum"),"p"._("Lorem ipsum dolor sit amet, consectetur adipiscing elit."),"a"._(["前往查看","fa-solid fa-caret-right"._fa])]),"article"._(["fa-solid fa-bus-alt"._fa,"strong"._("Lorem ipsum"),"p"._("Lorem ipsum dolor sit amet, consectetur adipiscing elit."),"a"._(["前往查看","fa-solid fa-caret-right"._fa])])])]),"section"._({sn:"001-06"},["span.top"._(),"span.bottom"._(),"section.header"._(["strong"._("Lorem ipsum"),"p"._("Lorem ipsum dolor sit amet")]),"section.body"._(["section"._(["strong"._("Lorem ipsum dolor sit amet"),"p"._("Lorem ipsum dolor sit amet, consectetur adipiscing elit. Nullam pharetra ligula odio, sed aliquam augue tincidunt vel. Suspendisse sodales felis non ex tempus, ac aliquam lacus posuere. Etiam imperdiet aliquam elit, at tincidunt dui."),"section.button"._(["a"._("Lorem"),"a"._("Lorem")])]),"section"._(["section.yt"._(["iframe"._({frameborder:"0",allowfullscreen:"",src:"https://www.youtube.com/embed/zJ_w7Dix_f0?si=6M2qyu_O3z2yYGNy"})]),"p"._("Lorem ipsum dolor sit amet, consectetur adipiscing elit. Nullam pharetra ligula odio, sed aliquam augue tincidunt vel.")])])]),"footer"._({sn:"001-07",style:{backgroundImage:"url(https://pardnchiu.github.io/image/bg_3.jpg)"}},["span.blur"._(),"section"._(["section.block"._(["strong"._("About"),"p"._("Lorem ipsum dolor sit amet, consectetur adipiscing elit. Nullam pharetra ligula odio, sed aliquam augue tincidunt vel. Suspendisse sodales felis non ex tempus, ac aliquam lacus posuere. Etiam imperdiet aliquam elit, at tincidunt dui."),"section.contact"._(["a"._(["fa-brands fa-github"._fa]),"a"._(["fa-brands fa-linkedin-in"._fa]),"a"._(["fa-brands fa-facebook"._fa])])]),"section.block"._(["strong"._("GitHub"),"section.list"._(["a"._("Markdown 編輯器 (Web)"),"a"._("Instagram 仿製 (Web)"),"a"._("Moneybook 簡易記帳 (Web)"),"a"._("Firebase 即時訊息 (iOS)"),"a"._("Moneybook 簡易記帳 (iOS)")])]),"section.block"._(["strong"._("Contact"),"section.input"._(["p"._("Lorem ipsum dolor sit amet, consectetur adipiscing elit."),"form"._(["label"._(["input@text 名稱"._({readonly:""})]),"label"._(["input@text 信箱"._({readonly:""})])]),"a"._("送出")])]),"section.block"._(["strong"._("Lorem"),"section.grid"._(["a"._(["img"._("https://pardnchiu.github.io/image/Userpics/SVG/Square/Afterclap-0.svg")]),"a"._(["img"._("https://pardnchiu.github.io/image/Userpics/SVG/Square/Afterclap-1.svg")]),"a"._(["img"._("https://pardnchiu.github.io/image/Userpics/SVG/Square/Afterclap-2.svg")]),"a"._(["img"._("https://pardnchiu.github.io/image/Userpics/SVG/Square/Afterclap-3.svg")]),"a"._(["img"._("https://pardnchiu.github.io/image/Userpics/SVG/Square/Afterclap-4.svg")]),"a"._(["img"._("https://pardnchiu.github.io/image/Userpics/SVG/Square/Afterclap-5.svg")]),"a"._(["img"._("https://pardnchiu.github.io/image/Userpics/SVG/Square/Afterclap-6.svg")]),"a"._(["img"._("https://pardnchiu.github.io/image/Userpics/SVG/Square/Afterclap-7.svg")]),"a"._(["img"._("https://pardnchiu.github.io/image/Userpics/SVG/Square/Afterclap-8.svg")])])]),"section.page"._(["a"._(["fa-solid fa-home"._fa]),"a"._("關於我"),"a"._("與我聯絡"),"a"._("服務條款"),"a"._("服務條款")]),"section.bottom"._(["p.l"._("© 2022 - All Rights Reserved - Pardn.io"),"p.r"._("Created by Pardn Chiu 邱敬幃")])])])]}}},w3={display:"https://www.w3schools.com/cssref/pr_class_display.php",position:"https://www.w3schools.com/cssref/pr_class_position.php",top:"https://www.w3schools.com/cssref/pr_pos_top.php",left:"https://www.w3schools.com/cssref/pr_pos_left.php",bottom:"https://www.w3schools.com/cssref/pr_pos_bottom.php",right:"https://www.w3schools.com/cssref/pr_pos_right.php",float:"https://www.w3schools.com/cssref/pr_class_float.php",opacity:"https://www.w3schools.com/cssref/css3_pr_opacity.php",zIndex:"https://www.w3schools.com/cssref/pr_pos_z-index.php",verticalAlign:"https://www.w3schools.com/cssref/pr_pos_vertical-align.php",boxSizing:"https://www.w3schools.com/cssref/pr_pos_vertical-align.php",overflow:"https://www.w3schools.com/cssref/pr_pos_overflow.php",transform:"https://www.w3schools.com/cssref/css3_prtransform.php",marginTop:"https://www.w3schools.com/cssref/pr_margin-top.php",marginLeft:"https://www.w3schools.com/cssref/pr_margin-left.php",marginBottom:"https://www.w3schools.com/cssref/pr_margin-bottom.php",marginRight:"https://www.w3schools.com/cssref/pr_margin-right.php",paddingTop:"https://www.w3schools.com/cssref/pr_padding-top.php",paddingLeft:"https://www.w3schools.com/cssref/pr_padding-left.php",paddingBottom:"https://www.w3schools.com/cssref/pr_padding-bottom.php",paddingRight:"https://www.w3schools.com/cssref/pr_padding-right.php",color:"https://www.w3schools.com/cssref/css_colors_legal.php",gradient:"https://www.w3schools.com/css/css3_gradients.asp",backgroundImage:"https://www.w3schools.com/cssref/pr_background-image.php",backgroundRepeat:"https://www.w3schools.com/cssref/pr_background-repeat.php",backgroundPosition:"https://www.w3schools.com/cssref/pr_background-position.php",backgroundSize:"https://www.w3schools.com/cssref/css3_prbackground-size.php",backgroundAttachment:"https://www.w3schools.com/cssref/pr_background-attachment.php",backgroundClip:"https://www.w3schools.com/cssref/css3_prbackground-clip.php",textAlign:"https://www.w3schools.com/cssref/pr_text_text-align.php",lineHeight:"https://www.w3schools.com/cssref/pr_dim_line-height.php",letterSpacing:"https://www.w3schools.com/cssref/pr_text_letter-spacing.php",textDecorationLine:"https://www.w3schools.com/cssref/css3_pr_text-decoration-line.php",textDecorationColor:"https://www.w3schools.com/cssref/css3_pr_text-decoration-color.php",textDecorationStyle:"https://www.w3schools.com/cssref/css3_pr_text-decoration-style.php",textDecorationThickness:"https://www.w3schools.com/cssref/pr_text_text-decoration-thickness.php",fontFamily:"https://www.w3schools.com/cssref/pr_font_font-family.php",fontStyle:"https://www.w3schools.com/cssref/pr_font_font-style.php",fontSize:"https://www.w3schools.com/cssref/pr_font_font-size.php",fontWeight:"https://www.w3schools.com/cssref/pr_font_weight.php",borderStyle:"https://www.w3schools.com/cssref/pr_border-style.php",borderTopWidth:"https://www.w3schools.com/cssref/pr_padding-top.php",borderLeftWidth:"https://www.w3schools.com/cssref/pr_padding-left.php",borderBottomWidth:"https://www.w3schools.com/cssref/pr_padding-right.php",borderRightWidth:"https://www.w3schools.com/cssref/pr_padding-right.php",borderTopLeftRadius:"https://www.w3schools.com/cssref/pr_padding-top.php",borderTopRightRadius:"https://www.w3schools.com/cssref/pr_padding-top.php",borderBottomRightRadius:"https://www.w3schools.com/cssref/pr_padding-top.php",borderBottomLeftRadius:"https://www.w3schools.com/cssref/pr_padding-top.php",listStyleType:"https://www.w3schools.com/cssref/pr_list-style-type.php",listStylePosition:"https://www.w3schools.com/cssref/pr_list-style-position.php",datetime:"https://www.w3schools.com/tags/att_datetime.asp"};Object.defineProperty(Array.prototype,"getMap",{get:function(){const t=new Map;return this.forEach(s=>t.set(s,0)),t}});let map={heading:["h1","h2","h3","h4","h5","h6"].getMap,target:["_self","_blank"].getMap,mask:["none","convex-32","convex-48","convex-64","concave-32","concave-48","concave-64","slash-left-32","slash-left-48","slash-left-64","slash-right-32","slash-right-48","slash-right-64","wave"].getMap,display:["block","inline","inline-block","flex","inline-flex","grid","inline-grid","table","table-row","list-item","none"].getMap,position:["static","relative","fixed","absolute","sticky"].getMap,float:["none","left","right"].getMap,boxSizing:["content-box","border-box"].getMap,overflow:["visible","hidden","scroll","scroll hidden","hidden scroll","auto"].getMap,backgroundRepeat:["repeat","repeat-x","repeat-y","no-repeat"].getMap,backgroundAttachment:["scroll","fixed","local"].getMap,backgroundClip:["border-box","padding-box","content-box","text"].getMap,textAlign:["left","center","right","justify","justify-all","start","end"].getMap,textDecoration:["none","overline","underline","line-through"].getMap,textDecorationStyle:["solid","double","dotted","dashed","wavy"].getMap,fontFamily:["Arial","Arial Black","Comic Sans MS","Courier","Courier New","Georgia","Impact","Monospace","Microsoft Sans Serif","Noto Sans TC","Roman","Roboto Mono","sans-serif","Symbol","System","Tahoma","Times New Roman","Trebuchet MS","verdana"].getMap,fontStyle:["normal","italic","oblique"].getMap,borderStyle:["none","solid","dotted","dashed"].getMap,bool:["是","否"].getMap,listStylePosition:["outside","inside"].getMap},navs={},headers={},sections={},templates={};nav.$vals.forEach(t=>navs[`n${t.sn}`]={cover:`image/preview/nav/${t.sn}.jpg`,body:function(){return null==this.cache&&(this.cache=getDom(t.body)[0]),this.cache}}),header.$vals.forEach(t=>headers[`n${t.sn}`]={cover:`image/preview/header/${t.sn}.jpg`,body:function(){return null==this.cache&&(this.cache=getDom(t.body)[0]),this.cache}}),section.$vals.forEach(t=>sections[`n${t.sn}`]={cover:`image/preview/section/${t.sn}.jpg`,body:function(){return null==this.cache&&(this.cache=getDom(t.body)[0]),this.cache}}),template.$vals.forEach(t=>templates[`n${t.sn}`]={cover:`image/preview/template/${t.sn}.jpg`,body:function(){return t.body()}});export{w3,map,navs,headers,sections,templates};
